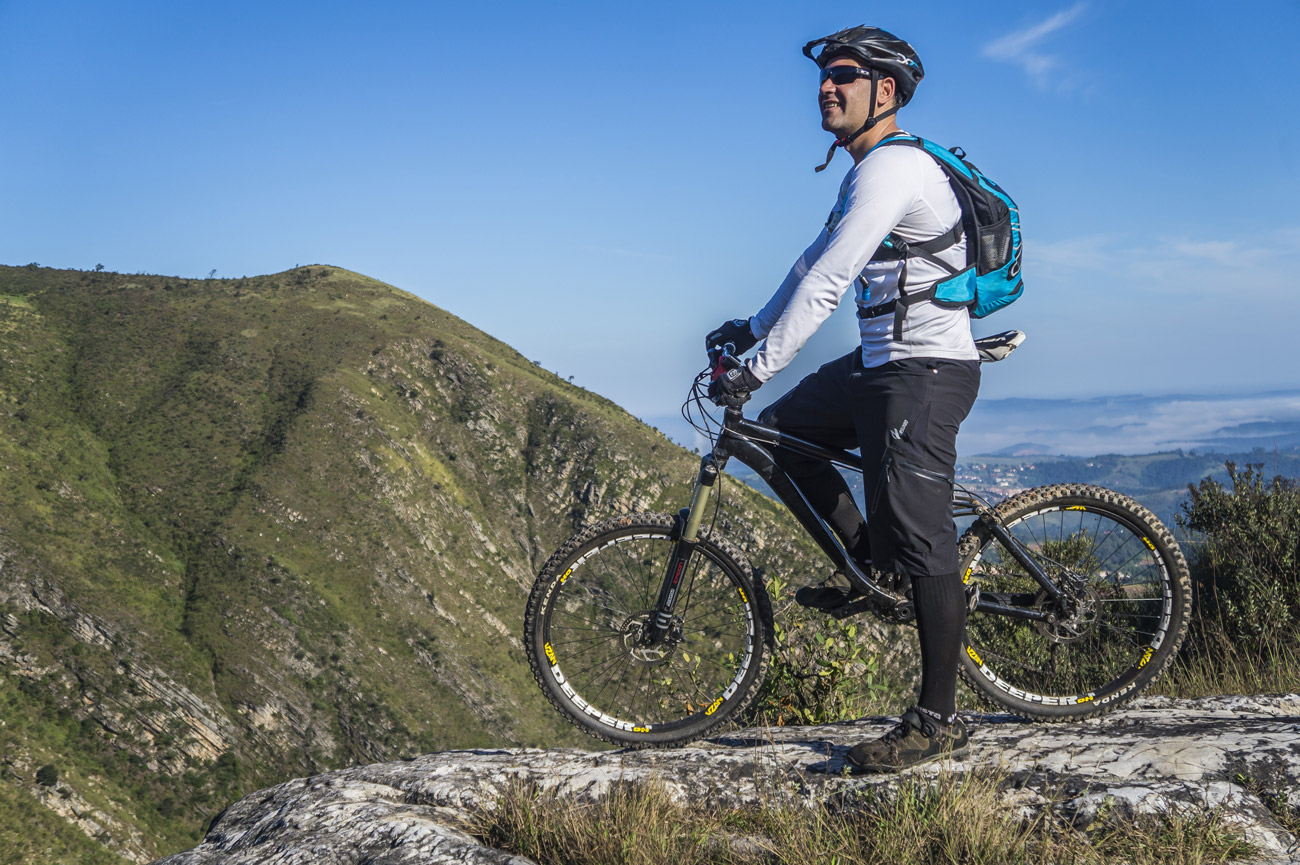
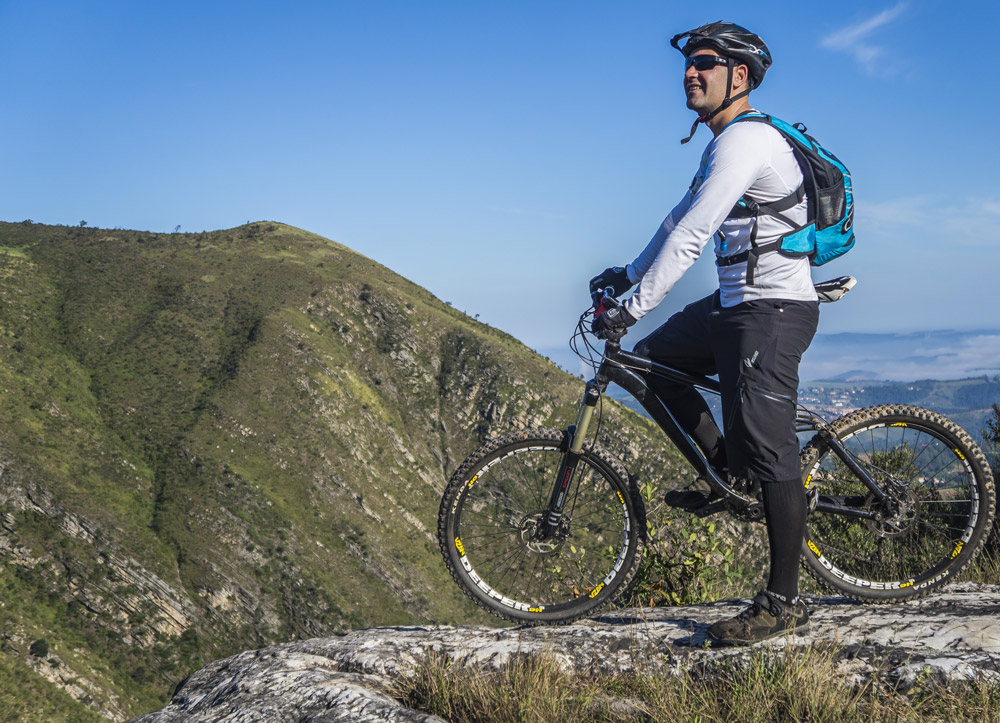
week 13

diff --git a/assignments/themountainspoke/styles/small.css b/assignments/themountainspoke/styles/small.css
@@ -44,11 +44,50 @@ main {
 main h2{
     padding:2%;
 }
+/*-----Home Page------*/
+
+.clearfix:after {
+    content: "";
+    display: block;
+    clear: both;
+}
 .homeimage {
     max-width: 100%;
     display: block;
     margin-left: auto;
     margin-right: auto;
+}
+.calltoaction {
+    position: absolute;
+    top: 60%;
+    left: 20%;
+    background-color: white;
+    width: 20%;
+    font-size: 40%;
+    text-align: center;
+    color: white;
+    padding: 1em;
+    border-bottom-left-radius: 10px 10px;
+    border-bottom-right-radius: 10px 10px;
+    border-top-right-radius: 10px 10px;
+    border-top-left-radius: 10px 10px;
+    
+}
+.calltoaction2 {
+    position: absolute;
+    top: 75%;
+    left: 20%;
+    background-color: white;
+    width: 20%;
+    font-size: 40%;
+    text-align: center;
+    color: white;
+    padding: 1em;
+    border-bottom-left-radius: 10px 10px;
+    border-bottom-right-radius: 10px 10px;
+    border-top-right-radius: 10px 10px;
+    border-top-left-radius: 10px 10px;
+    
 }
 current ul {
     list-style-type: none;
@@ -210,11 +249,4 @@ label{
 }
 label textarea {
     width: 100%;
-}
-/*-----Home Page------*/
-
-.clearfix:after {
-    content: "";
-    display: block;
-    clear: both;
 }

diff --git a/assignments/themountainspoke/styles/medium.css b/assignments/themountainspoke/styles/medium.css
@@ -54,4 +54,36 @@
          grid-template-columns:repeat(2, 50%);        
 }
   
+.calltoaction {
+    position: absolute;
+    top: 90%;
+    left: 20%;
+    background-color: white;
+    width: 20%;
+    font-size: 60%;
+    text-align: center;
+    color: white;
+    padding: 1em;
+    border-bottom-left-radius: 10px 10px;
+    border-bottom-right-radius: 10px 10px;
+    border-top-right-radius: 10px 10px;
+    border-top-left-radius: 10px 10px;
+    
+}
+    .calltoaction2 {
+    position: absolute;
+    top: 110%;
+    left: 20%;
+    background-color: white;
+    width: 20%;
+    font-size: 60%;
+    text-align: center;
+    color: white;
+    padding: 1em;
+    border-bottom-left-radius: 10px 10px;
+    border-bottom-right-radius: 10px 10px;
+    border-top-right-radius: 10px 10px;
+    border-top-left-radius: 10px 10px;
+    
+}
     

diff --git a/assignments/themountainspoke/styles/large.css b/assignments/themountainspoke/styles/large.css
@@ -47,3 +47,35 @@
          grid-template-columns:repeat(2, 50%);        
 }
 
+.calltoaction {
+    position: absolute;
+    top: 90%;
+    left: 20%;
+    background-color: white;
+    width: 20%;
+    font-size: 90%;
+    text-align: center;
+    color: white;
+    padding: 1em;
+    border-bottom-left-radius: 10px 10px;
+    border-bottom-right-radius: 10px 10px;
+    border-top-right-radius: 10px 10px;
+    border-top-left-radius: 10px 10px;
+    
+}
+    .calltoaction2 {
+    position: absolute;
+    top: 110%;
+    left: 20%;
+    background-color: white;
+    width: 20%;
+    font-size: 90%;
+    text-align: center;
+    color: white;
+    padding: 1em;
+    border-bottom-left-radius: 10px 10px;
+    border-bottom-right-radius: 10px 10px;
+    border-top-right-radius: 10px 10px;
+    border-top-left-radius: 10px 10px;
+    
+}

diff --git a/assignments/themountainspoke/index.html b/assignments/themountainspoke/index.html
@@ -31,11 +31,20 @@
             </nav>
  <main class="clearfix">
         <figure class="homeimage">
-            <img src="images/home.jpg" alt="bike" sizes = "100vw"
+            <img src="images/home.jpg" alt="bike" sizes = "95vw"
             srcset="images/home500.jpg 500w,
             images/home800.jpg 800w,
             images/home1200.jpg 1200w">
-        </figure>  
+            
+        </figure> 
+     <div class="calltoaction">
+     <h1><a href="adventuretours.html">Go on an Adventure</a></h1>
+     
+     </div>
+     <div class="calltoaction2">
+     <h1><a href="salespage.html">Shop</a></h1>
+     
+     </div>
  
   </main> 
     
